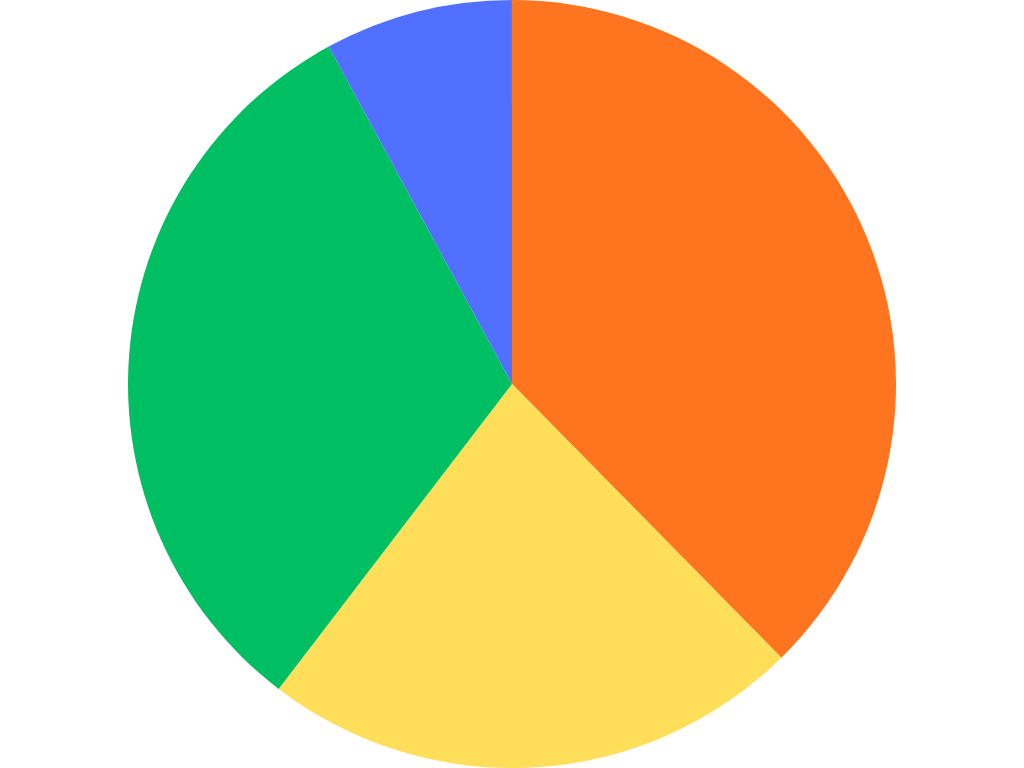
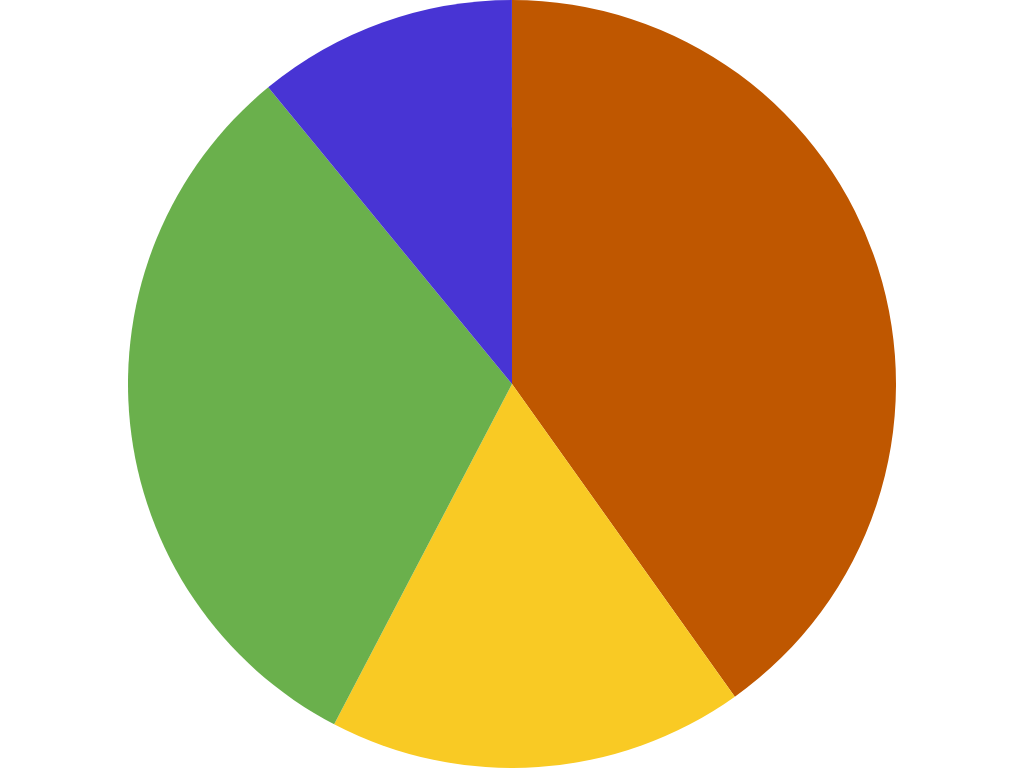
Update member demographics charts and member count
New pie charts for Academic Background and Class Standing reflecting
the latest survey (137 of 152 members), and bumps the "Total Members"
stat card and meta descriptions from 130+ to 140+.

diff --git a/pages/contact.html b/pages/contact.html
@@ -7,7 +7,7 @@
   <!-- Primary Meta Tags -->
   <title>Partner with BOSSO | UT Austin Sports Analytics Organization</title>
   <meta name="title" content="Partner with BOSSO | UT Austin Sports Analytics Organization">
-  <meta name="description" content="Partner with BOSSO at UT Austin and connect with 130+ members across 35+ majors advancing consulting, research, education, media, and philanthropy.">
+  <meta name="description" content="Partner with BOSSO at UT Austin and connect with 140+ members across 35+ majors advancing consulting, research, education, media, and philanthropy.">
   <meta name="keywords" content="sports analytics partnership, UT Austin sports sponsorship, BOSSO partners, sports consulting collaboration, McCombs partnerships, sports business recruitment">
   <meta name="author" content="Business of Sports Student Organization">
   <link rel="canonical" href="https://txbosso.com/pages/contact.html">
@@ -16,7 +16,7 @@
   <meta property="og:type" content="website">
   <meta property="og:url" content="https://txbosso.com/pages/contact.html">
   <meta property="og:title" content="Partner with BOSSO | UT Austin Sports Analytics Organization">
-  <meta property="og:description" content="Connect with 130+ UT Austin students across 35+ majors advancing consulting, research, education, media, and philanthropy in sports business.">
+  <meta property="og:description" content="Connect with 140+ UT Austin students across 35+ majors advancing consulting, research, education, media, and philanthropy in sports business.">
   <meta property="og:image" content="https://txbosso.com/assets/images/logo.png">
   <meta property="og:site_name" content="BOSSO">
 
@@ -24,7 +24,7 @@
   <meta name="twitter:card" content="summary_large_image">
   <meta name="twitter:url" content="https://txbosso.com/pages/contact.html">
   <meta name="twitter:title" content="Partner with BOSSO | UT Austin Sports Analytics Organization">
-  <meta name="twitter:description" content="Connect with 130+ UT Austin students across 35+ majors advancing consulting, research, education, media, and philanthropy in sports business.">
+  <meta name="twitter:description" content="Connect with 140+ UT Austin students across 35+ majors advancing consulting, research, education, media, and philanthropy in sports business.">
   <meta name="twitter:image" content="https://txbosso.com/assets/images/logo.png">
 
   <!-- Additional SEO Tags -->
@@ -837,7 +837,7 @@
         <!-- Stats Grid -->
         <div class="stats-grid">
           <div class="stat-card">
-            <div class="stat-number">130</div>
+            <div class="stat-number">140+</div>
             <div class="stat-label">Total Members</div>
           </div>
           <div class="stat-card">
@@ -854,7 +854,8 @@
           </div>
         </div>
 
-        <h3 style="font-size: 32px; font-weight: 700; color: #111; text-align: center; margin: 60px 0 40px 0;">MEMBER BREAKDOWN</h3>
+        <h3 style="font-size: 32px; font-weight: 700; color: #111; text-align: center; margin: 60px 0 10px 0;">MEMBER BREAKDOWN</h3>
+        <p style="text-align: center; color: #666; font-size: 14px; margin: 0 0 40px;">Based on 137 of 152 current members surveyed</p>
         <div class="demographics-grid">
           <div class="breakdown-container">
             <h4 class="breakdown-title">Academic Background (By School)</h4>
@@ -880,10 +881,6 @@
                   <span>College of Natural Sciences</span>
                 </div>
                 <div style="display: flex; align-items: center; gap: 8px;">
-                  <div style="width: 14px; height: 14px; background: #22a6b3; border-radius: 50%; flex-shrink: 0;"></div>
-                  <span>Undecided</span>
-                </div>
-                <div style="display: flex; align-items: center; gap: 8px;">
                   <div style="width: 14px; height: 14px; background: #be2edd; border-radius: 50%; flex-shrink: 0;"></div>
                   <span>Moody College of Communication</span>
                 </div>
@@ -894,6 +891,10 @@
                 <div style="display: flex; align-items: center; gap: 8px;">
                   <div style="width: 14px; height: 14px; background: #c8b6ff; border-radius: 50%; flex-shrink: 0;"></div>
                   <span>Other Schools</span>
+                </div>
+                <div style="display: flex; align-items: center; gap: 8px;">
+                  <div style="width: 14px; height: 14px; background: #22a6b3; border-radius: 50%; flex-shrink: 0;"></div>
+                  <span>Undecided</span>
                 </div>
               </div>
             </div>
@@ -910,12 +911,12 @@
                   <span>Freshman</span>
                 </div>
                 <div style="display: flex; align-items: center; gap: 8px;">
-                  <div style="width: 14px; height: 14px; background: #f9ca24; border-radius: 50%; flex-shrink: 0;"></div>
-                  <span>Juniors</span>
-                </div>
-                <div style="display: flex; align-items: center; gap: 8px;">
                   <div style="width: 14px; height: 14px; background: #6ab04c; border-radius: 50%; flex-shrink: 0;"></div>
                   <span>Sophomores</span>
+                </div>
+                <div style="display: flex; align-items: center; gap: 8px;">
+                  <div style="width: 14px; height: 14px; background: #f9ca24; border-radius: 50%; flex-shrink: 0;"></div>
+                  <span>Juniors</span>
                 </div>
                 <div style="display: flex; align-items: center; gap: 8px;">
                   <div style="width: 14px; height: 14px; background: #4834d4; border-radius: 50%; flex-shrink: 0;"></div>
